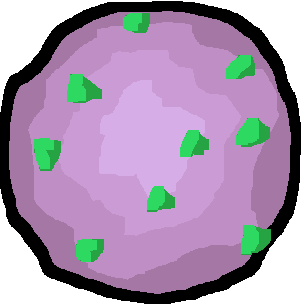
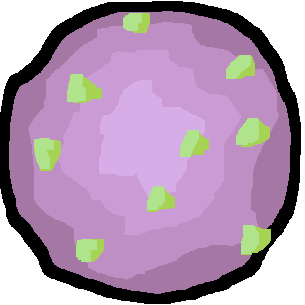
improved several item cookie sprites + added shield sprite

diff --git a/Cookie Eater/src/cookies/CookieShield.java b/Cookie Eater/src/cookies/CookieShield.java
@@ -1,17 +1,26 @@
 package cookies;
 
-import java.awt.Color;
-import java.awt.Graphics;
+import java.awt.*;
+import java.io.IOException;
 
 import ce3.*;
 //import levels.*;
+import sprites.SpriteStoreCookie;
 
 public class CookieShield extends CookieStore{
+	
+	private SpriteStoreCookie sprite;
 	
 	public CookieShield(Board frame, int startx, int starty) {
 		super(frame,startx,starty);
 		price = board.currFloor.getShieldCost();
 		name = "+1 Shield";
+		try {
+			sprite = new SpriteStoreCookie(board,this,"cookieNewShield");
+		} catch (IOException e) {
+			// TODO Auto-generated catch block
+			e.printStackTrace();
+		}
 	}
 	public boolean purchase() {
 		if(board.player.getCash()>=price) {
@@ -21,7 +30,8 @@ public class CookieShield extends CookieStore{
 		return false;
 	}
 	public void paint(Graphics g) {
-		g.setColor(new Color(20,170,180,100));
-		g.fillOval((int)(.5+x-radius*board.currFloor.getScale()), (int)(.5+y-radius*board.currFloor.getScale()), (int)(.5+radius*board.currFloor.getScale()*2), (int)(.5+radius*board.currFloor.getScale()*2));
+		//g.setColor(new Color(20,170,180,100));
+		//g.fillOval((int)(.5+x-radius*board.currFloor.getScale()), (int)(.5+y-radius*board.currFloor.getScale()), (int)(.5+radius*board.currFloor.getScale()*2), (int)(.5+radius*board.currFloor.getScale()*2));
+		sprite.paint(g);
 	}
 }

diff --git a/Cookie Eater/src/items/Summon.java b/Cookie Eater/src/items/Summon.java
@@ -36,7 +36,6 @@ public abstract class Summon {
 			Wall w = board.walls.get(i);
 			if(hitsRect(w.getX(),w.getY(),w.getW(),w.getH())) {
 				collisionWall(w,user.getGhosted(),user.getShielded());
-				if(!user.getShielded())System.out.println("ahh");
 			}
 		}
 		
